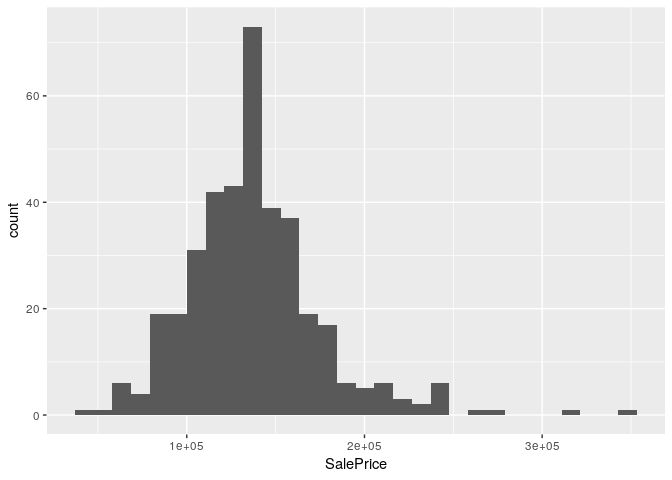
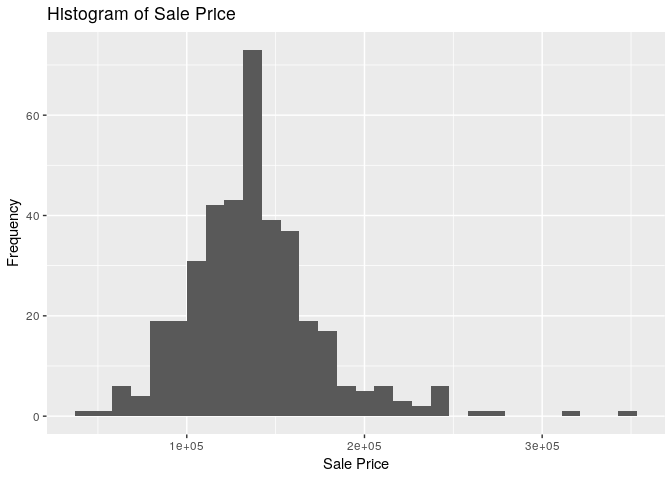
Log-Log Model Start on assumption assessment

diff --git a/analysis/studies/question1.md b/analysis/studies/question1.md
@@ -15,7 +15,7 @@ neighborhood where they operate (NAmes, Edwards and BrkSide).
 # libraries
 library(knitr)
 library(tidyverse)
-library(recipes)
+library(olsrr)
 
 # load data
 train <- read_csv('../data/train.csv')
@@ -24,7 +24,7 @@ test <- read_csv('../data/test.csv')
 
 # Analysis
 
-## Build the Model
+## Extract Data of Interest
 
 ``` r
 # select data of interest
@@ -34,14 +34,16 @@ train <- train %>%
 train$Neighborhood <- as.factor(train$Neighborhood)
 ```
 
-### Plots of Data
+## Plots of Data
 
 Histogram of `SalePrice`, which is the sale price of the houses in the
 dataset.
 
 ``` r
 train %>% ggplot(aes(x = SalePrice)) +
-  geom_histogram()
+  geom_histogram() + 
+  labs(title = 'Histogram of Sale Price', 
+       y = 'Frequency', x = 'Sale Price')
 ```
 
 ![](question1_files/figure-gfm/unnamed-chunk-3-1.png)<!-- -->
@@ -51,99 +53,188 @@ areas of houses in the dataset.
 
 ``` r
 train %>% ggplot(aes(x = GrLivArea)) +
-  geom_histogram()
+  geom_histogram() + 
+  labs(title = 'Histogram of Living Room Area', 
+       y = 'Frequency', x = 'Living Room Area')
 ```
 
 ![](question1_files/figure-gfm/unnamed-chunk-4-1.png)<!-- -->
+
+Both variables (`SalePrice` and `GrLivArea`) show evidence of right
+skew. This could indicate need for a log transform.
+
+Scatter plot of `SalePrice` vs `GrLivArea` shows that the large values
+in `GrLivArea` are pulling the regression line. A log transfrom on
+`GrLivArea` may help correct this.
+
+``` r
+train %>% ggplot(aes(x = GrLivArea, y = SalePrice)) +
+  geom_point() +
+  geom_smooth(method = 'lm') + 
+  labs(title = 'Sale Price vs Living Room Area', 
+       y = 'Log of Sale Price', x = 'Living Room Area')
+```
+
+![](question1_files/figure-gfm/unnamed-chunk-5-1.png)<!-- -->
+
+Scatter plot of `SalePrice` vs log transform of `GrLivArea` shows taking
+the log transform of `GrLivArea` does improve the linear relationship.
+However, it appears that a larger value of `GrLivArea` is associated
+with an increase in varaince of `SalePrice`. A log transform of
+`SalePrice` may help control for this change in varaince.
+
+``` r
+train %>% ggplot(aes(x = log(GrLivArea), y = SalePrice)) +
+  geom_point() +
+  geom_smooth(method = 'lm') + 
+  labs(title = 'Sale Price vs Log of Living Room Area', 
+       y = 'Sale Price', x = 'Log of Living Room Area')
+```
+
+![](question1_files/figure-gfm/unnamed-chunk-6-1.png)<!-- -->
+
+Scatter plot the log transform of `SalePrice` vs the log transform of
+`GrLivArea` shows evidece of a linear relationship without sufficient
+evidence of changing variance.
+
+``` r
+train %>% ggplot(aes(x = log(GrLivArea), y = log(SalePrice))) +
+  geom_point() +
+  geom_smooth(method = 'lm') + 
+  labs(title = 'Log of Sale Price vs Lof of Living Room Area', 
+       y = 'Log of Sale Price', x = 'Log of Living Room Area')
+```
+
+![](question1_files/figure-gfm/unnamed-chunk-7-1.png)<!-- -->
 
 Barplot of `Neighborhood`, which is the square footage of the living
 areas of houses in the dataset.
 
 ``` r
-train %>% ggplot(aes(x = Neighborhood)) +
-  geom_bar()
+train %>% ggplot(aes(x = Neighborhood)) + geom_bar() + 
+  labs(title = 'Count of Levels of Neighborhood', 
+       y = 'Count')
 ```
 
-![](question1_files/figure-gfm/unnamed-chunk-5-1.png)<!-- -->
-
-### Model
+![](question1_files/figure-gfm/unnamed-chunk-8-1.png)<!-- -->
 
 ``` r
-lm(SalePrice ~  GrLivArea, data = train) %>% summary()
+# create dummy variables with Neighborhood == 'Edwards' as reference
+train$Neighborhood_BrkSide <-  as.numeric(train$Neighborhood == 'BrkSide')
+train$Neighborhood_NAmes <-  as.numeric(train$Neighborhood == 'NAmes')
 ```
 
-    ## 
-    ## Call:
-    ## lm(formula = SalePrice ~ GrLivArea, data = train)
-    ## 
-    ## Residuals:
-    ##     Min      1Q  Median      3Q     Max 
-    ## -177619  -17918     919   15227  163722 
-    ## 
-    ## Coefficients:
-    ##              Estimate Std. Error t value Pr(>|t|)    
-    ## (Intercept) 78205.578   4536.054   17.24   <2e-16 ***
-    ## GrLivArea      45.979      3.265   14.08   <2e-16 ***
-    ## ---
-    ## Signif. codes:  0 '***' 0.001 '**' 0.01 '*' 0.05 '.' 0.1 ' ' 1
-    ## 
-    ## Residual standard error: 30980 on 381 degrees of freedom
-    ## Multiple R-squared:  0.3423, Adjusted R-squared:  0.3406 
-    ## F-statistic: 198.3 on 1 and 381 DF,  p-value: < 2.2e-16
+## Model
+
+Based on the log-log plot above, the response will be modeled as
+
+![model\_equation](./question1_files/model_equation.png)
 
 ``` r
-dum <- train %>% 
-  recipe(~ .) %>% 
-  step_dummy(Neighborhood) %>%
-  prep(training = train) %>% 
-  bake(newdata = train)
-dum
-```
-
-    ## # A tibble: 383 x 4
-    ##    SalePrice GrLivArea Neighborhood_Edwards Neighborhood_NAmes
-    ##        <int>     <int>                <dbl>              <dbl>
-    ##  1    118000      1077                    0                  0
-    ##  2    157000      1253                    0                  1
-    ##  3    132000       854                    0                  0
-    ##  4    149000      1004                    0                  1
-    ##  5    139000      1339                    0                  1
-    ##  6    134800       900                    0                  1
-    ##  7    207500      1600                    0                  1
-    ##  8     68500       520                    0                  0
-    ##  9    165500      1700                    0                  1
-    ## 10    153000      1297                    0                  1
-    ## # ... with 373 more rows
-
-``` r
-lm(SalePrice ~  GrLivArea + 
-     Neighborhood_Edwards + 
+# model the mean response given equation above
+model <- lm(formula = log(SalePrice) ~ log(GrLivArea) + 
+     Neighborhood_BrkSide + 
      Neighborhood_NAmes +
-     GrLivArea * Neighborhood_Edwards + 
-     GrLivArea * Neighborhood_NAmes, data = dum) %>% summary()
+     log(GrLivArea) * Neighborhood_BrkSide + 
+     log(GrLivArea) * Neighborhood_NAmes, data = train)
+summary(model)
 ```
 
     ## 
     ## Call:
-    ## lm(formula = SalePrice ~ GrLivArea + Neighborhood_Edwards + Neighborhood_NAmes + 
-    ##     GrLivArea * Neighborhood_Edwards + GrLivArea * Neighborhood_NAmes, 
-    ##     data = dum)
+    ## lm(formula = log(SalePrice) ~ log(GrLivArea) + Neighborhood_BrkSide + 
+    ##     Neighborhood_NAmes + log(GrLivArea) * Neighborhood_BrkSide + 
+    ##     log(GrLivArea) * Neighborhood_NAmes, data = train)
     ## 
     ## Residuals:
-    ##    Min     1Q Median     3Q    Max 
-    ## -96204 -14568   -310  12601 181131 
+    ##      Min       1Q   Median       3Q      Max 
+    ## -0.72080 -0.10353  0.02184  0.10586  0.80470 
     ## 
     ## Coefficients:
-    ##                                 Estimate Std. Error t value Pr(>|t|)    
-    ## (Intercept)                    19971.514  12351.125   1.617  0.10672    
-    ## GrLivArea                         87.163      9.782   8.911  < 2e-16 ***
-    ## Neighborhood_Edwards           68381.591  13969.511   4.895 1.46e-06 ***
-    ## Neighborhood_NAmes             54704.888  13882.334   3.941 9.69e-05 ***
-    ## GrLivArea:Neighborhood_Edwards   -57.412     10.718  -5.357 1.48e-07 ***
-    ## GrLivArea:Neighborhood_NAmes     -32.847     10.815  -3.037  0.00256 ** 
+    ##                                     Estimate Std. Error t value Pr(>|t|)
+    ## (Intercept)                          8.00651    0.40320  19.858   <2e-16
+    ## log(GrLivArea)                       0.51967    0.05648   9.202   <2e-16
+    ## Neighborhood_BrkSide                -2.09359    0.64589  -3.241   0.0013
+    ## Neighborhood_NAmes                   0.48622    0.51751   0.940   0.3481
+    ## log(GrLivArea):Neighborhood_BrkSide  0.29998    0.09122   3.289   0.0011
+    ## log(GrLivArea):Neighborhood_NAmes   -0.04664    0.07248  -0.644   0.5203
+    ##                                        
+    ## (Intercept)                         ***
+    ## log(GrLivArea)                      ***
+    ## Neighborhood_BrkSide                ** 
+    ## Neighborhood_NAmes                     
+    ## log(GrLivArea):Neighborhood_BrkSide ** 
+    ## log(GrLivArea):Neighborhood_NAmes      
     ## ---
     ## Signif. codes:  0 '***' 0.001 '**' 0.01 '*' 0.05 '.' 0.1 ' ' 1
     ## 
-    ## Residual standard error: 28550 on 377 degrees of freedom
-    ## Multiple R-squared:  0.4474, Adjusted R-squared:   0.44 
-    ## F-statistic: 61.04 on 5 and 377 DF,  p-value: < 2.2e-16
+    ## Residual standard error: 0.1923 on 377 degrees of freedom
+    ## Multiple R-squared:  0.5121, Adjusted R-squared:  0.5056 
+    ## F-statistic: 79.14 on 5 and 377 DF,  p-value: < 2.2e-16
+
+## Model Assumption Assessment
+
+``` r
+# get predicted values
+train$Predicted <- predict(model, train[,c('GrLivArea','Neighborhood_BrkSide','Neighborhood_NAmes')])
+train$Resid <- model$residuals
+```
+
+### Normality
+
+``` r
+qqnorm(model$residuals)
+```
+
+![](question1_files/figure-gfm/unnamed-chunk-11-1.png)<!-- -->
+
+``` r
+hist(model$residuals)
+```
+
+![](question1_files/figure-gfm/unnamed-chunk-11-2.png)<!-- -->
+
+### Linear Trend
+
+``` r
+train %>% ggplot(aes(x = log(GrLivArea), y = log(SalePrice))) +
+  geom_point() +
+  geom_smooth(method = 'lm') + 
+  labs(title = 'Log of Sale Price vs Lof of Living Room Area', 
+       y = 'Log of Sale Price', x = 'Log of Living Room Area')
+```
+
+![](question1_files/figure-gfm/unnamed-chunk-12-1.png)<!-- -->
+
+### Equal Variances
+
+``` r
+train %>% ggplot(aes(x = Predicted, y = Resid)) +
+  geom_point() +
+  geom_abline(slope = 0)
+```
+
+![](question1_files/figure-gfm/unnamed-chunk-13-1.png)<!-- -->
+
+### Other Plots
+
+``` r
+# Rstudent vs leverage
+ols_plot_resid_lev(model)
+```
+
+![](question1_files/figure-gfm/assumption_plots-1.png)<!-- -->
+
+``` r
+ols_plot_resid_stand(model)
+```
+
+![](question1_files/figure-gfm/assumption_plots-2.png)<!-- -->
+
+``` r
+ols_plot_cooksd_bar(model)
+```
+
+![](question1_files/figure-gfm/assumption_plots-3.png)<!-- -->
+
+\[ASE = \frac{\sum_{n=1}^{N} (y_i - \hat{y}_i)^2 }{N}\]
